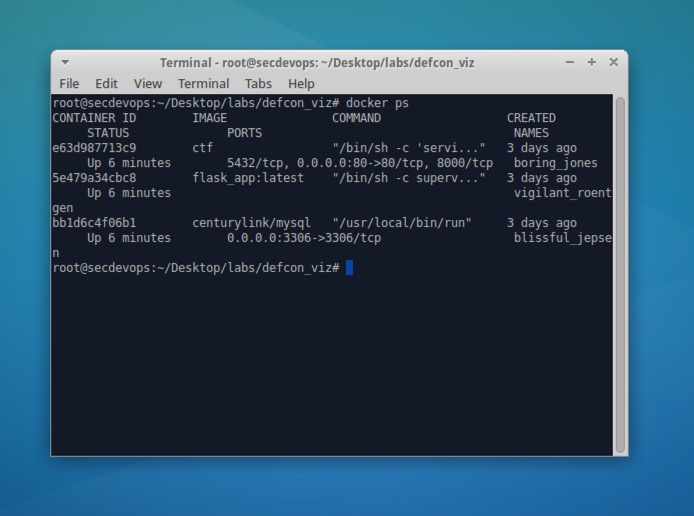
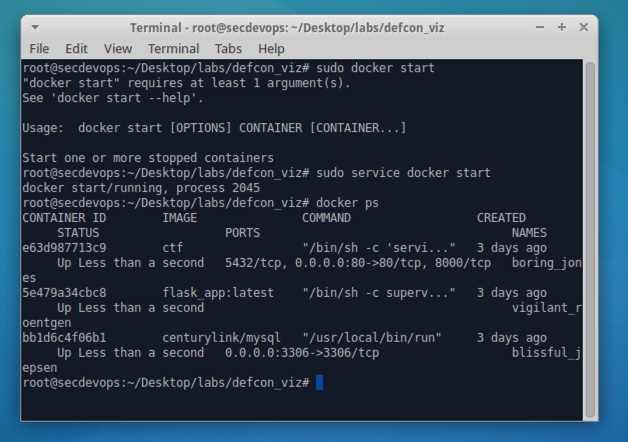
change in docker instructions

diff --git a/README.md b/README.md
@@ -12,7 +12,8 @@
 	![](import_appliance.jpg) 
 * Wait for OS to boot. Once it boots, you should see the desktop environment: 
 	![](desktop.jpg)
-* To test if everything is working correctly, Open up the `Terminal Emulator` in the Desktop and run `docker ps`, you should see something like this: 
+* 
+* To test if everything is working correctly, Open up the `Terminal Emulator` in the Desktop and run the first command `sudo service docker start`. Subsequently, run the command `docker ps`, you should see something like this: 
 	![](docker_ps.jpg)
 * As a final test, your terminal should automatically be on working directory `/root/Desktop/labs/defcon_viz`, run the commands: 
 	* `source active_viz.sh`
